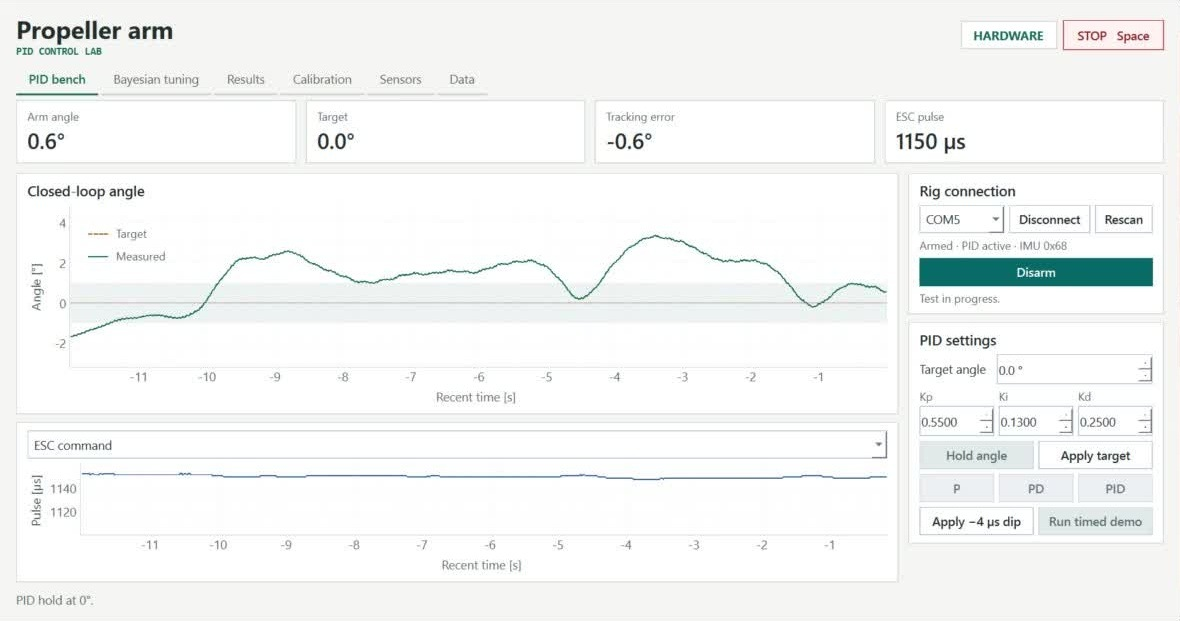
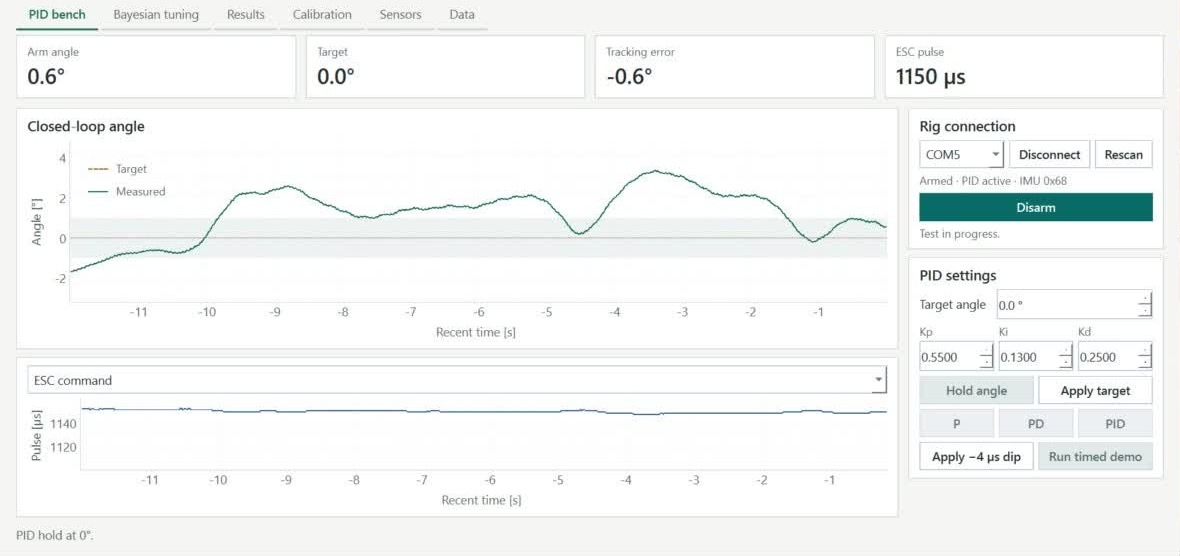
Name the project around HBO-based PID tuning

diff --git a/hardware/dashboard.py b/hardware/dashboard.py
@@ -208,7 +208,7 @@ class Dashboard(Q.QMainWindow):
         title_block.setSpacing(0)
         title = label("Propeller arm", "display")
         title_block.addWidget(title)
-        title_block.addWidget(label("PID CONTROL LAB", "eyebrow"))
+        title_block.addWidget(label("HBO PID TUNING", "eyebrow"))
         head.addLayout(title_block)
         head.addStretch()
         self.source = label("SIMULATION" if self.simulated else "HARDWARE")

diff --git a/README.md b/README.md
@@ -1,4 +1,4 @@
-# Propeller Arm Control Lab
+# HBO-Based PID Tuning for a UAV Propeller Arm
 
 A single-axis propeller arm with an Arduino Uno, MPU6050 and a Python dashboard. The Uno closes the angle loop in real time. The dashboard runs experiments, records the response and uses heteroscedastic Bayesian optimisation (HBO) to choose PID gains to test on the bench.
 
